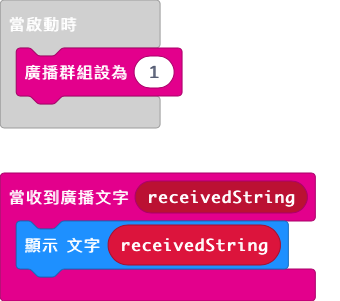
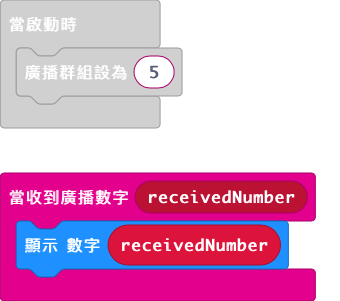
Update main.blocks, main.ts

diff --git a/main.ts b/main.ts
@@ -1,7 +1,10 @@
+radio.onReceivedNumber(function (receivedNumber) {
+    basic.showNumber(receivedNumber)
+})
 radio.onReceivedString(function (receivedString) {
     basic.showString(receivedString)
 })
-radio.setGroup(1)
+radio.setGroup(5)
 basic.forever(function () {
 	
 })
